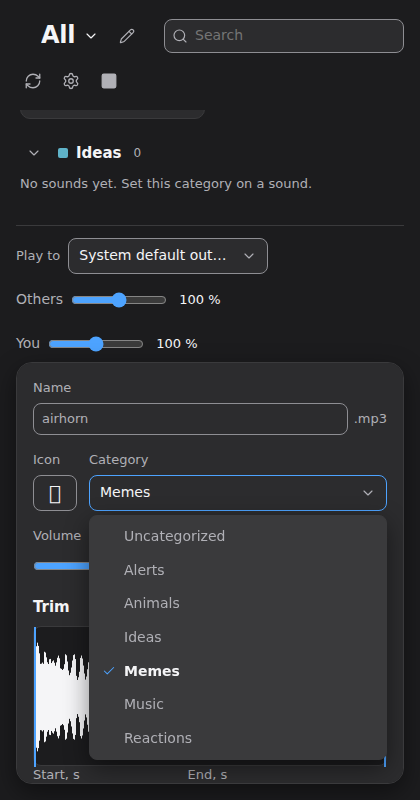
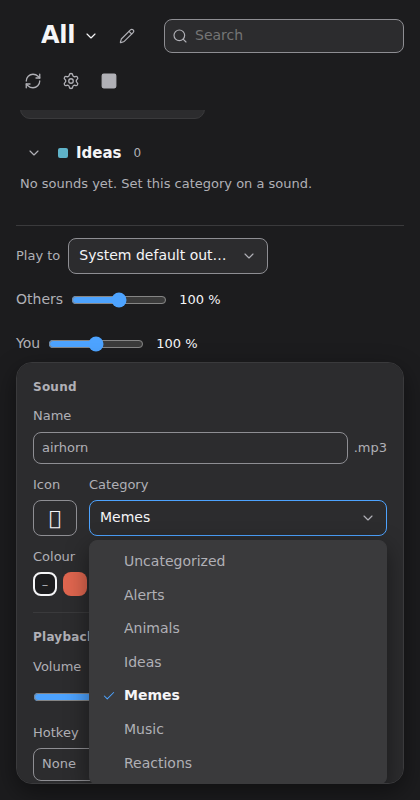
Enable You when previews have their own device; split the sound editor
You was disabled whenever the Windows default output was the main output,
even with a preview device set, so the headphone previews could not be
turned down. You is now usable when a preview device is set, and it
sets the preview level. The monitor stream still opens only for the
default-output copy, so the cable is never fed twice (you_active vs
monitor_active).

The sound editor is split into Sound (name, icon, category, colour),
Playback (volume, hotkey) and Trim, each with a heading, with delete
apart at the bottom.

Changed region(s): [[0.0619, 0.4688, 0.9286, 1.0], [0.8048, 0.5, 0.9286, 0.5625], [0.8667, 0.5938, 0.9286, 0.6562]]

diff --git a/src/components/SoundPanel.tsx b/src/components/SoundPanel.tsx
@@ -1,4 +1,4 @@
-import { useEffect, useRef, useState } from "react";
+import { useEffect, useRef, useState, type ReactNode } from "react";
 import { api } from "../api";
 import { EmojiField } from "./EmojiField";
 import { HotkeyField } from "./HotkeyField";
@@ -80,79 +80,80 @@ export function SoundPanel({ entry, sounds, categories, onChanged, onRenamed, on
   const hotkey = entry.meta.hotkey;
   const clash = hotkey ? sounds.find((s) => s.fileName !== entry.fileName && s.meta.hotkey === hotkey) : undefined;
 
-  // Edit card order: Name, Emoji and Category, Volume, Trim, Colour, Hotkey, then Delete.
+  // The card is split into three sections with a heading each: what the sound is, how it plays,
+  // and how it is trimmed. Deleting sits apart at the bottom.
   return (
-    <div className="panel">
-      <label className="field">
-        <span>Name</span>
-        <span className="name-row">
-          <input
-            value={stem}
-            onChange={(e) => setStem(e.target.value)}
-            onBlur={() => void rename()}
-            onKeyDown={(e) => e.key === "Enter" && e.currentTarget.blur()}
-          />
-          <span className="ext">{ext}</span>
-        </span>
-      </label>
+    <div className="panel sound-panel">
+      <Section title="Sound">
+        <label className="field">
+          <span>Name</span>
+          <span className="name-row">
+            <input
+              value={stem}
+              onChange={(e) => setStem(e.target.value)}
+              onBlur={() => void rename()}
+              onKeyDown={(e) => e.key === "Enter" && e.currentTarget.blur()}
+            />
+            <span className="ext">{ext}</span>
+          </span>
+        </label>
 
-      <div className="field-row">
-        <EmojiField value={entry.meta.emoji} onChange={(e) => void save({ emoji: e })} />
+        <div className="field-row">
+          <EmojiField value={entry.meta.emoji} onChange={(e) => void save({ emoji: e })} />
+          <div className="field grow">
+            <span>Category</span>
+            <Select
+              aria-label="Category"
+              value={entry.meta.category ?? ""}
+              options={[{ value: "", label: "Uncategorized" }, ...categories.map((c) => ({ value: c.id, label: c.name }))]}
+              onChange={(v) => void save({ category: v || null })}
+            />
+          </div>
+        </div>
 
-        <div className="field grow">
-          <span>Category</span>
-          <Select
-            aria-label="Category"
-            value={entry.meta.category ?? ""}
-            options={[{ value: "", label: "Uncategorized" }, ...categories.map((c) => ({ value: c.id, label: c.name }))]}
-            onChange={(v) => void save({ category: v || null })}
+        <div className="field">
+          <span>Colour</span>
+          <Swatches
+            label="Pad colour"
+            value={entry.meta.color ?? null}
+            inheritLabel="Use category colour"
+            onChange={(c) => void save({ color: c })}
           />
         </div>
-      </div>
+      </Section>
 
-      <label className="field">
-        <span className="field-head">
-          Volume <output className="value">{Math.round(volume * 100)}%</output>
-        </span>
-        <input
-          type="range"
-          min={0}
-          max={2}
-          step={0.05}
-          value={volume}
-          onChange={(e) => setVolume(Number(e.target.value))}
-        />
-      </label>
+      <Section title="Playback">
+        <label className="field">
+          <span className="field-head">
+            Volume <output className="value">{Math.round(volume * 100)}%</output>
+          </span>
+          <input
+            type="range"
+            min={0}
+            max={2}
+            step={0.05}
+            value={volume}
+            onChange={(e) => setVolume(Number(e.target.value))}
+          />
+        </label>
 
-      <TrimEditor
-        key={entry.fileName}
-        entry={entry}
-        onSaved={onChanged}
-        onExported={onExported}
-      />
+        <div className="field">
+          <span>Hotkey</span>
+          <span className="hotkey-row">
+            <HotkeyField value={hotkey ?? null} onChange={(h) => void save({ hotkey: h })} />
+            {hotkey && (
+              <button type="button" className="btn btn-quiet" onClick={() => void save({ hotkey: null })}>
+                Clear
+              </button>
+            )}
+          </span>
+          {clash && <p className="warn">{stemOf(clash.fileName)} already uses this hotkey.</p>}
+        </div>
+      </Section>
 
-      <div className="field">
-        <span>Colour</span>
-        <Swatches
-          label="Pad colour"
-          value={entry.meta.color ?? null}
-          inheritLabel="Use category colour"
-          onChange={(c) => void save({ color: c })}
-        />
-      </div>
-
-      <div className="field">
-        <span>Hotkey</span>
-        <span className="hotkey-row">
-          <HotkeyField value={hotkey ?? null} onChange={(h) => void save({ hotkey: h })} />
-          {hotkey && (
-            <button type="button" className="btn btn-quiet" onClick={() => void save({ hotkey: null })}>
-              Clear
-            </button>
-          )}
-        </span>
-        {clash && <p className="warn">{stemOf(clash.fileName)} already uses this hotkey.</p>}
-      </div>
+      <Section title="Trim" bare>
+        <TrimEditor key={entry.fileName} entry={entry} onSaved={onChanged} onExported={onExported} />
+      </Section>
 
       <div className="panel-foot">
         <button type="button" className="btn btn-danger" onClick={onDelete}>
@@ -161,5 +162,15 @@ export function SoundPanel({ entry, sounds, categories, onChanged, onRenamed, on
         <p className="hint">Moves the file to the Recycle Bin. Shortcut: Delete key with the pad selected.</p>
       </div>
     </div>
+  );
+}
+
+/** One titled block of the edit card. `bare` skips the heading when the child brings its own. */
+function Section({ title, bare, children }: { title: string; bare?: boolean; children: ReactNode }) {
+  return (
+    <section className="edit-section" aria-label={title}>
+      {!bare && <h3 className="edit-heading">{title}</h3>}
+      {children}
+    </section>
   );
 }

diff --git a/src/App.tsx b/src/App.tsx
@@ -470,7 +470,7 @@ export default function App() {
             <output className="value">{Math.round(master * 100)} %</output>
           </label>
 
-          <label className="top-field volume" title={output.monitorActive ? "Your volume: sounds you hear on the Windows default output" : "Off: the Windows default output is the main output"}>
+          <label className="top-field volume" title={yourVolumeHint(output)}>
             <span>You</span>
             <input
               type="range"
@@ -660,4 +660,12 @@ function IconButton({
       {children}
     </button>
   );
+}
+
+/** Tooltip for the "You" slider: what it controls right now. */
+function yourVolumeHint(output: OutputState): string {
+  if (output.monitorActive && output.previewSelected) return "Your volume: sounds on the Windows default output and headphone previews";
+  if (output.monitorActive) return "Your volume: sounds you hear on the Windows default output";
+  if (output.previewSelected) return "Your volume: headphone previews only";
+  return "Off: set a preview output in Settings, or make the Windows default output something other than the main output";
 }

diff --git a/src/styles.css b/src/styles.css
@@ -1966,3 +1966,33 @@ button.group-title:hover {
   margin-bottom: 4px;
   color: var(--ink-2);
 }
+
+/* ---------- Edit card sections (SoundPanel) ----------
+   Three blocks with a heading and a hairline between them; delete sits apart at the bottom. */
+.sound-panel {
+  gap: 0;
+}
+
+.edit-section {
+  display: flex;
+  flex-direction: column;
+  gap: 12px;
+  padding: 16px 0;
+  border-bottom: 1px solid var(--line);
+}
+
+.sound-panel > .edit-section:first-child {
+  padding-top: 0;
+}
+
+.edit-heading {
+  margin: 0;
+  font-size: 12px;
+  font-weight: 600;
+  letter-spacing: 0.02em;
+  color: var(--ink-2);
+}
+
+.sound-panel > .panel-foot {
+  margin-top: 16px;
+}

diff --git a/src/components/Settings.tsx b/src/components/Settings.tsx
@@ -82,7 +82,7 @@ export function Settings({
         <h2>For you</h2>
         <p className="hint">
           Each sound also plays on your Windows default output, so you hear it.
-          {output.monitorActive ? "" : " Your default output is the main output, so nothing extra plays."}
+          {output.monitorActive ? "" : output.previewSelected ? " Your default output is the main output, so only previews use this volume." : " Your default output is the main output, so nothing extra plays."}
         </p>
         <label className="inline-field">
           <span>Your volume <output className="value">{Math.round(output.monitorVolume * 100)}%</output></span>

diff --git a/src-tauri/src/audio.rs b/src-tauri/src/audio.rs
@@ -100,6 +100,12 @@ impl Engine {
         default.is_some() && default != resolved(&self.primary_id)
     }
 
+    /// Whether "You" can be used: the monitor copy plays, or previews have their own device and
+    /// "You" sets their level. Only `monitor_active` decides whether the monitor stream opens.
+    pub fn you_active(&self) -> bool {
+        self.monitor_active() || self.preview_id.is_some()
+    }
+
     /// Opens (or reuses) the monitor stream on the Windows default output. `None` when the
     /// default is the main output.
     fn monitor_stream(&mut self) -> Result<Option<&MixerDeviceSink>, String> {

diff --git a/src-tauri/src/lib.rs b/src-tauri/src/lib.rs
@@ -473,7 +473,7 @@ fn list_output_devices(store: tauri::State<Store>, engine: tauri::State<AudioSta
     let (selected, monitor_volume, preview_selected) = store.get(|cfg| {
         (cfg.output_device.clone(), cfg.monitor_volume, cfg.preview_device.clone())
     });
-    let monitor_active = lock(&engine)?.monitor_active();
+    let monitor_active = lock(&engine)?.you_active();
     Ok(OutputState {
         devices: Engine::list_devices()?,
         selected,
